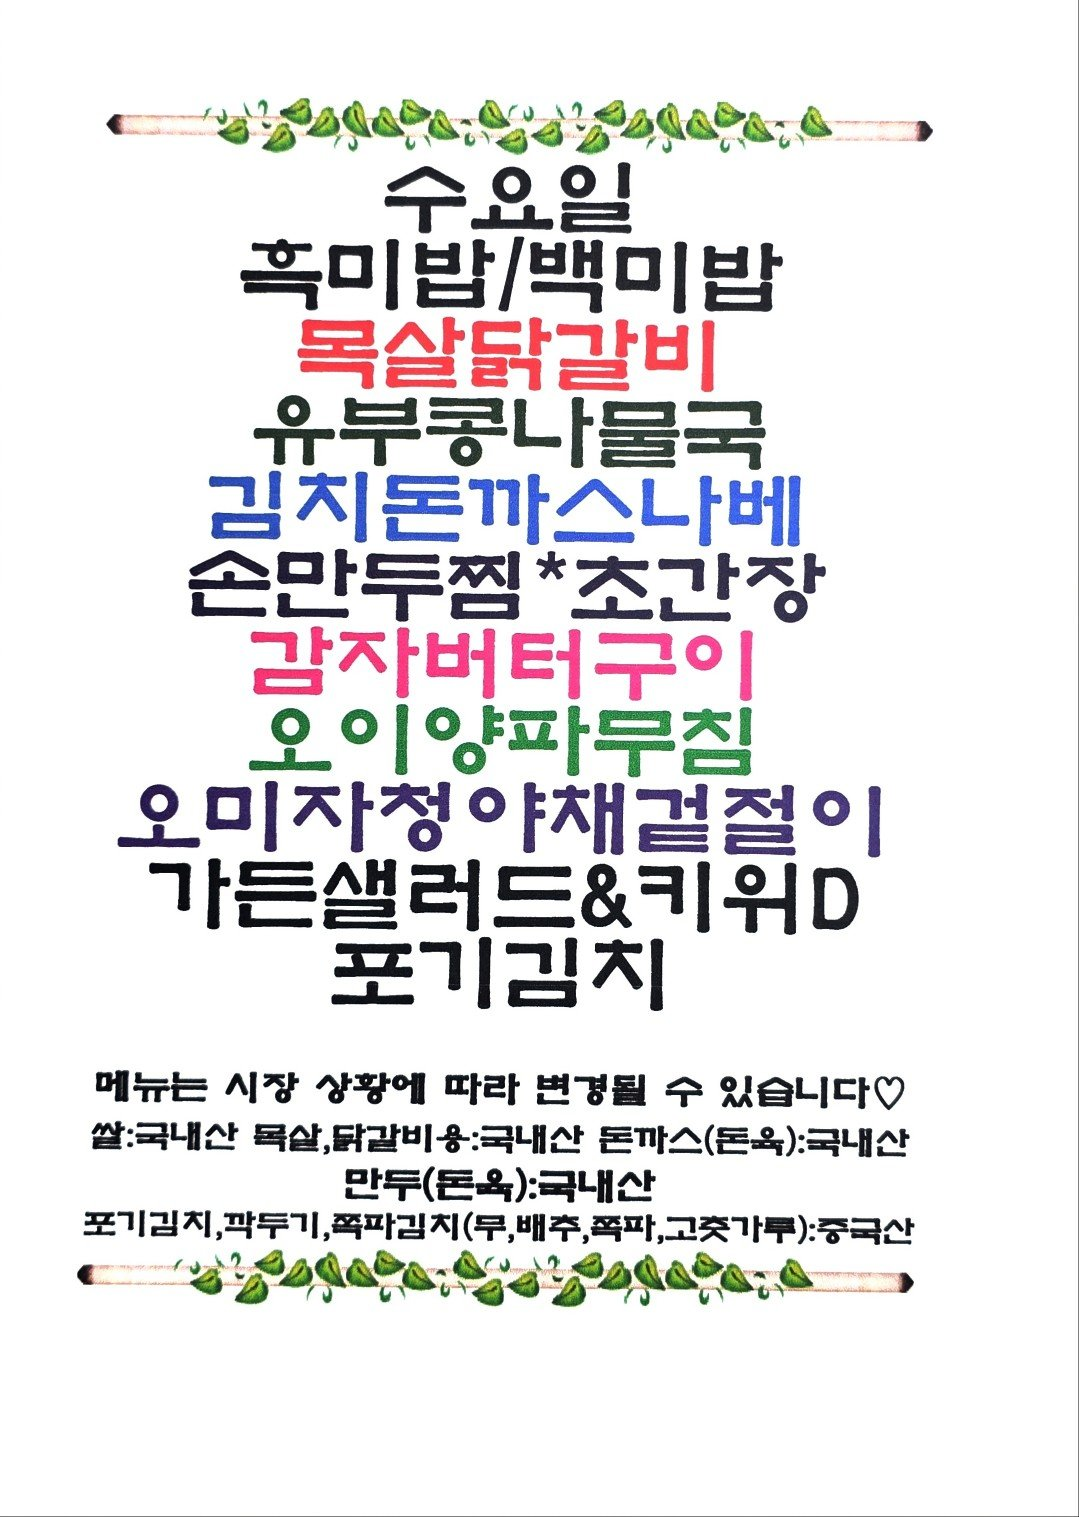
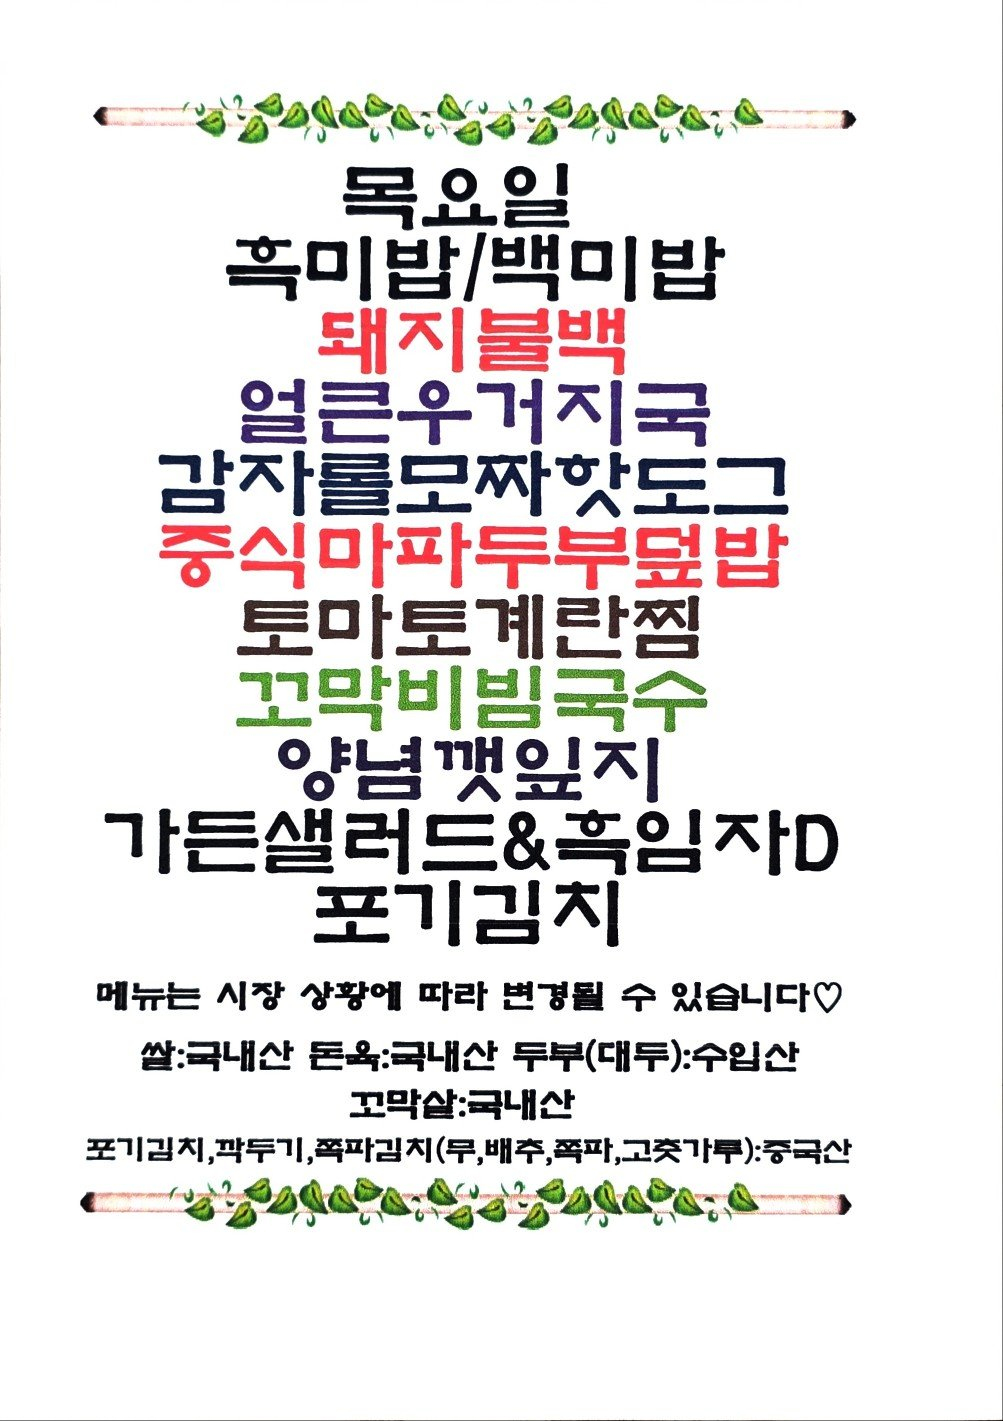
Update menu board assets

Changed region(s): [[0.0618, 0.0619, 0.8654, 0.867], [0.0927, 0.0619, 0.1236, 0.0929]]

diff --git a/menu-today/index.html b/menu-today/index.html
@@ -209,7 +209,7 @@
 
     <section class="meta-bar">
       <div class="meta-card"><div class="meta-label">기준 날짜</div><div class="meta-value">2026년 7월 29일 수요일</div></div>
-      <div class="meta-card"><div class="meta-label">최종 가져온 시간</div><div class="meta-value">2026-07-29 09:18:39</div></div>
+      <div class="meta-card"><div class="meta-label">최종 가져온 시간</div><div class="meta-value">2026-07-29 09:33:42</div></div>
       <div class="meta-card"><div class="meta-label">확인 완료</div><div class="meta-value">9개 식당</div></div>
       <div class="meta-card"><div class="meta-label">준비중</div><div class="meta-value">3개 채널</div></div>
     </section>
@@ -295,7 +295,7 @@
             <div class="sub">에이스테크노타워10차</div>
           </div>
         </div>
-        <div class="menu-inline-image"><img src="./images/thefoodsketch.png" alt="더푸드스케치 식단 이미지"></div><ul><li>호박새우섯찌개</li><li>숫불돼지길비구이</li><li>생선까스 / 타르타르S</li><li>버섯계란밀이</li><li>들기름막국수</li><li>감자채햄볶음</li><li>그 양배추 / 상추 / 쌈장</li><li>~ 비트무쌈</li><li>가든샐러드 &amp; 드레싱</li><li>배추겉절이 / 음료</li><li>들기름막</li></ul>
+        <div class="menu-inline-image"><img src="./images/thefoodsketch.png" alt="더푸드스케치 식단 이미지"></div><ul><li>호박새우섯찌개</li><li>숫불돼지길비구이</li><li>생선까스 / 타르타르</li><li>버섯계란밀이</li><li>들기름막국수</li><li>감자채햄볶음</li><li>그 양배추 / 상추 / 쌈장</li><li>~ 비트무쌈</li><li>가든샐러드 &amp; 드레싱</li><li>배추겉절이 / 음료</li><li>들기름막</li></ul>
       </article>
 
       <article class="restaurant-card">
@@ -305,7 +305,7 @@
             <div class="sub">스타밸리</div>
           </div>
         </div>
-        <div class="menu-inline-image"><img src="./images/starvalley-food4u-post.png" alt="스타밸리푸드포유 식단 이미지"></div><ul><li>목살닭갈비</li><li>림지돈까스나베</li><li>손만두찜*조간장</li><li>랄자버터구이</li><li>오이 양파무침</li><li>오미자정야재걸절이</li><li>가든샐러드 &amp; 키위D</li><li>혹미밥 / 백미밥</li><li>리지돈까스나베</li></ul>
+        <div class="menu-inline-image"><img src="./images/starvalley-food4u-post.png" alt="스타밸리푸드포유 식단 이미지"></div><div class="info-note">오늘 메뉴 미수집 상태입니다.</div>
       </article>
     </section>
 

diff --git a/guro-menu/index.html b/guro-menu/index.html
@@ -32,7 +32,7 @@
   </header>
   <section class="meta">
     <div><small>기준 날짜</small><strong>2026년 7월 29일 수요일</strong></div>
-    <div><small>최종 갱신</small><strong>2026-07-29 09:18:53</strong></div>
+    <div><small>최종 갱신</small><strong>2026-07-29 09:33:52</strong></div>
     <div><small>등록 식당</small><strong>5개</strong></div>
   </section>
   <div class="notice">공개 카카오 채널의 메뉴 이미지를 자동 수집하고 OCR로 정리합니다. 텍스트에 오타가 있을 수 있으니 식단 이미지를 함께 확인해 주세요.</div>
